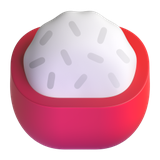
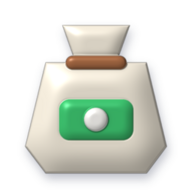
JAGA: beranda baru, tombol suara di kolom cari, ikon gaya clay, daftar driver tanpa dokumen
- Beranda: kartu menu 4 ikon (Belanja, Jago, Toko, Pesanan), mic di kolom cari,
  slogan JA/GA disorot, promo duplikat dihapus
- 28 ikon baru bergaya clay 3D
- Pendaftaran driver cukup nama, WA, plat nomor & alamat; tetap disetujui owner
- Cache service worker jt-v20

Claude-Session: https://claude.ai/code/session_01NviPS7Y1nNYHre6cZEPXst

diff --git a/toko/index.html b/toko/index.html
@@ -1265,6 +1265,49 @@ body.is-owner .dtop{z-index:20}
 .ddocs .actions{grid-column:1/-1}
 .orow.rep.done{opacity:.6}
 .tag.green{background:#dcfce7;color:#166534}
+
+/* beranda v2 */
+.ahero{padding-bottom:58px}
+.hub{margin:0 16px 12px;background:#fff;border-radius:24px;padding:14px 10px 10px;box-shadow:0 20px 40px -26px rgba(10,22,51,.55),0 2px 6px -3px rgba(10,22,51,.12);border:1px solid #edf1f8}
+.hgrid{display:grid;grid-template-columns:repeat(4,1fr);gap:4px}
+.ht{position:relative;border:0;background:none;display:flex;flex-direction:column;align-items:center;gap:7px;font:inherit;color:#1b2740;cursor:pointer;padding:2px 0 4px}
+.ht .ib{width:60px;height:60px;border-radius:19px;display:grid;place-items:center;transition:transform .25s cubic-bezier(.3,1.6,.5,1)}
+.ht .ib .e3d{width:40px;height:40px}
+.ht:active .ib{transform:scale(.92)}
+.ht b{font-size:13px;font-weight:700;letter-spacing:-.01em}
+.ht .t1{background:linear-gradient(160deg,#fff3e2,#ffe4c2)}
+.ht .t2{background:linear-gradient(150deg,#16306e,#2f6bff)}
+.ht .t3{background:linear-gradient(160deg,#e6f7ee,#c9eed9)}
+.ht .t4{background:linear-gradient(160deg,#eaf1ff,#d4e2ff)}
+.ht .bd2{position:absolute;top:-6px;right:calc(50% - 38px);background:#ffd23f;color:#3d2c00;font-size:10px;font-weight:800;border-radius:99px;padding:2px 7px;border:2px solid #fff}
+.ht .bd2.ok{background:#16a34a;color:#fff}
+.ht .bd2.rd{background:#ff5a5f;color:#fff;min-width:20px;text-align:center}
+.hvoice{display:flex;align-items:center;gap:12px;width:100%;margin-top:12px;border:0;border-radius:18px;padding:10px 12px 10px 10px;background:linear-gradient(120deg,#15994a,#22c55e 70%,#3fd97a);color:#fff;font:inherit;text-align:left;cursor:pointer;box-shadow:0 12px 24px -16px rgba(22,163,74,.9)}
+.hvoice .vci{width:46px;height:46px;font-size:22px}
+.hvoice b{display:block;font-size:15.5px;letter-spacing:-.01em}
+.hvoice small{display:block;font-size:12px;opacity:.92;margin-top:1px}
+.hgo{width:30px;height:30px;border-radius:50%;background:rgba(255,255,255,.2);display:grid;place-items:center;flex-shrink:0;font-size:16px}
+.tstrip{margin:0 16px 16px;display:grid;grid-template-columns:1fr 1fr;gap:8px}
+.tstrip .th{grid-column:1/-1;display:flex;align-items:center;gap:6px;font-size:13px;font-weight:700;color:#334063;padding:0 2px}
+.tstrip .th b{color:#1f4fd1}
+.tstrip .th .ic{color:#1f4fd1;font-size:16px}
+.tstrip .tc{display:flex;gap:9px;align-items:center;background:#fff;border:1px solid #e7ecf5;border-radius:16px;padding:10px}
+.tstrip .ti{width:34px;height:34px;border-radius:11px;background:#e7f7ee;color:#16a34a;display:grid;place-items:center;flex-shrink:0;font-size:18px}
+.tstrip .tc b{display:block;font-size:13.5px;color:#1f4fd1;letter-spacing:-.01em}
+.tstrip .tc small{display:block;font-size:11.5px;color:#5b6884;line-height:1.25}
+.abanner{height:142px}
+.aslide h3{font-size:19px}
+.aslide .art{font-size:84px}
+@media (min-width:700px){.ht .ib{width:68px;height:68px}.ht .ib .e3d{width:46px;height:46px}}
+.aql{flex:1;min-width:0;display:flex;align-items:center;gap:10px;height:100%;cursor:text}
+.asearch{padding:0 6px 0 14px}
+.amic{width:40px;height:40px;border-radius:12px;border:0;flex-shrink:0;display:grid;place-items:center;font-size:20px;color:#fff;cursor:pointer;background:linear-gradient(140deg,#16a34a,#22c55e);box-shadow:0 6px 14px -6px rgba(22,163,74,.8);position:relative}
+.amic::after{content:"";position:absolute;inset:0;border-radius:12px;animation:gpulse 2.2s infinite}
+@keyframes gpulse{0%{box-shadow:0 0 0 0 rgba(34,197,94,.55)}70%{box-shadow:0 0 0 10px rgba(34,197,94,0)}100%{box-shadow:0 0 0 0 rgba(34,197,94,0)}}
+.hub{padding-bottom:12px}
+.tstrip .tc b.ab{color:#334063;font-weight:600}
+.tstrip .tc b.ab em,.tstrip .th .jg2 em{font-style:normal;font-weight:800;color:#fff;background:#1f4fd1;border-radius:6px;padding:1px 4px;margin-right:1px}
+.tstrip .th .jg2{display:inline-flex;gap:2px}
 </style>
 <script src="config.js"></script>
 <script src="https://cdn.jsdelivr.net/npm/@supabase/supabase-js@2"></script>
@@ -2487,7 +2530,7 @@ function appHome(){
     '<button class="aloc" data-act="edit-addr"><small>'+E("pin")+' Antar ke</small><b><span>'+esc(prof.address||"Atur alamat pengantaran")+'</span>'+I("down")+'</b></button>'+
     '<button class="abell press" data-act="nav" data-v="orders" aria-label="Pesanan aktif">'+E("bell")+(oc?'<span class="bdg">'+oc+'</span>':'')+'</button></div>'+
     '<div class="ahello'+ra(1)+'">'+greet()+(first?', '+esc(first):'')+'!<span>Mau belanja apa hari ini?</span></div>'+
-    '<label class="asearch'+ra(2)+'">'+E("search")+'<input id="aq" type="search" enterkeyhint="search" placeholder="Cari makanan, minuman, sembako…" value="'+esc(S.q)+'" autocomplete="off"></label></section>'+
+    '<div class="asearch'+ra(2)+'"><label class="aql">'+E("search")+'<input id="aq" type="search" enterkeyhint="search" placeholder="Cari makanan, minuman…" value="'+esc(S.q)+'" autocomplete="off"></label><button class="amic press" data-act="voice" aria-label="Pesan pakai suara">'+I("mic")+'</button></div></section>'+
     '<div class="abody'+(filtering?" flat":"")+'" id="hbody">'+appHomeBody()+'</div>';
 }
 function renderHomeBody(){
@@ -2512,10 +2555,15 @@ function appHomeBody(){
   if(!filtering){
     const ar = S.rides.find(r => RIDE_ACTIVE.includes(r.status));
     if(locOk(getProf()) && !inArea(getProf())) h += '<div style="margin:0 16px 12px">'+areaBanner()+'</div>';
-    h += '<button class="vcard press'+ra(2)+'" data-act="voice"><span class="vci">'+I("mic")+'</span><div class="grow"><b>Pesan pakai suara</b><small>Ketuk, lalu bicara: “mau ke pasar” atau “beli beras 5 kilo”</small></div></button>';
-    h += '<div class="svc'+ra(2)+'"><button class="sv press" data-act="scroll-prod">'+E("cart")+'<div><b>Belanja</b><small>Antar dari toko</small></div></button>'+
-      '<button class="sv jg press" data-act="nav" data-v="jago">'+E("scooter")+'<div><b>Jago</b><small>'+(ar ? esc((STATUS[ar.status]||{}).l||"Berjalan") : 'Ojek online')+'</small></div>'+(ar?'<span class="bdg">1</span>':'<span class="new">Baru</span>')+'</button></div>';
-    h += '<div class="trust'+ra(2)+'"><div class="tt">Kami <b>JAGA</b> Kepercayaan anda</div><div class="tg"><span>'+I("checkc")+'<i><b>JA</b>minan Driver dan toko Aman</i></span><span>'+I("checkc")+'<i><b>GA</b>ransi pesanan pasti sampai</i></span></div></div>';
+    const oc = myActiveOrders();
+    h += '<div class="hub'+ra(2)+'"><div class="hgrid">'+
+      '<button class="ht press" data-act="scroll-prod"><span class="ib t1">'+E("cart")+'</span><b>Belanja</b></button>'+
+      '<button class="ht jg press" data-act="nav" data-v="jago"><span class="ib t2">'+E("scooter")+'</span><b>Jago</b>'+(ar?'<span class="bd2 ok">Jalan</span>':'<span class="bd2">Baru</span>')+'</button>'+
+      '<button class="ht press" data-act="scroll-store"><span class="ib t3">'+E("store")+'</span><b>Toko</b></button>'+
+      '<button class="ht press" data-act="nav" data-v="orders"><span class="ib t4">'+E("receipt")+'</span><b>Pesanan</b>'+(oc?'<span class="bd2 rd">'+oc+'</span>':'')+'</button></div>'+'</div>';
+    h += '<div class="tstrip'+ra(3)+'"><div class="th">'+I("badge")+' Kami <b class="jg2"><em>JA</em><em>GA</em></b> Kepercayaan anda</div>'+
+      '<div class="tc"><span class="ti">'+I("checkc")+'</span><span><b class="ab"><em>JA</em>minan</b><small>Driver & toko aman</small></span></div>'+
+      '<div class="tc"><span class="ti">'+I("checkc")+'</span><span><b class="ab"><em>GA</em>ransi</b><small>Pesanan pasti sampai</small></span></div></div>';
     h += '<div class="abanner'+ra(3)+'"><div class="slides" id="slides" style="transform:translateX(-'+(S.slide%ASLIDES.length*100)+'%)">'+ASLIDES.map(x =>
       '<div class="aslide '+x.c+'"'+(x.act?' data-act="'+x.act+'"':'')+'><div class="tx"><span class="pill">'+x.pill+'</span><h3>'+x.t+'</h3><p>'+x.d+'</p>'+(x.cta?'<span class="cta">'+x.cta+' →</span>':'')+'</div><div class="art">'+E(x.art)+'</div></div>').join("")+'</div>'+
       '<div class="adots" id="dots">'+ASLIDES.map((x,i)=>'<button class="'+(i===S.slide%ASLIDES.length?"on":"")+'" data-act="slide-to" data-v="'+i+'" aria-label="Banner '+(i+1)+'"></button>').join("")+'</div></div>';
@@ -2537,13 +2585,9 @@ function appHomeBody(){
         return '<div class="again'+ra(i)+'"><div class="th">'+th+'</div><div class="grow" style="min-width:0"><b>'+esc(it.name||o.storeName)+(o.items.length>1?' +'+(o.items.length-1):'')+'</b><small>'+timeAgo(o.doneAt||o.createdAt)+' · '+rp(o.total)+'</small></div><button class="rb press" data-act="reorder" data-id="'+esc(o.id)+'" aria-label="Pesan lagi">'+I("repeat")+'</button></div>';
       }).join("")+'</div>';
     }
-    h += '<div class="ash"><h2>Promo untukmu</h2></div><div class="hscroll">'+
-      '<div class="deal d1'+ra(1)+'"><div><small>Ongkir cuma</small><b>Rp2rb<br>/500 m</b></div><span class="chip2">Driver terdekat</span><span class="art">'+E("truck")+'</span></div>'+
-      '<div class="deal d2'+ra(2)+'"><div><small>Untuk pembeli</small><b>Rp0 biaya<br>admin</b></div><span class="chip2">Bayar langsung ke toko</span><span class="art">'+E("money")+'</span></div>'+
-      '<div class="deal d3'+ra(3)+'"><div><small>Bayar mudah</small><b>QRIS, transfer<br>& COD</b></div><span class="chip2">Pilih saat checkout</span><span class="art">'+E("card")+'</span></div></div>';
   }
   if(stores.length){
-    h += '<div class="ash"><h2>'+(filtering?'Toko':'Toko di sekitarmu')+'</h2><span class="small muted">'+stores.length+' toko</span></div><div class="hscroll">'+stores.slice(0,20).map((s,i) => {
+    h += '<div class="ash" id="storeTop"><h2>'+(filtering?'Toko':'Toko di sekitarmu')+'</h2><span class="small muted">'+stores.length+' toko</span></div><div class="hscroll">'+stores.slice(0,20).map((s,i) => {
       const c = s.color || "#2f6bff";
       return '<div class="astore press'+ra(i)+'" data-act="open-store" data-id="'+esc(s.id)+'"><div class="cv" style="background:linear-gradient(140deg,'+esc(c)+'26,'+esc(c)+'66)">'+avatarHtml(s)+E(catE(s.category))+'</div>'+
         '<div class="bd"><b>'+esc(s.name)+'</b><small>'+(s.open===false?'<span class="closedt">Tutup</span>':'<span class="open">● Buka</span>')+' · '+esc(s.category)+' · '+esc(s.area||"")+'</small>'+storeStars(s.id)+'</div></div>';
@@ -2733,6 +2777,7 @@ document.addEventListener("click", e => {
   if(a === "edit-addr"){ openAddrModal(); return; }
   if(a === "guest"){ try{ localStorage.setItem("jt_onb", "1"); }catch(_){} go("home"); return; }
   if(a === "logout"){ confirmModal("Keluar dari akun di perangkat ini? Nama & alamat yang tersimpan akan dihapus.", "Keluar", async () => { try{ localStorage.removeItem("st_buyer"); localStorage.removeItem("jt_onb"); }catch(_){} go("login"); }); return; }
+  if(a === "scroll-store"){ const t = document.getElementById("storeTop")||document.getElementById("prodTop"); if(t) t.scrollIntoView({behavior:"smooth"}); return; }
   if(a === "scroll-prod"){ const t = document.getElementById("prodTop"); if(t) t.scrollIntoView({behavior:"smooth"}); return; }
 });
 document.addEventListener("submit", e => {
@@ -2874,7 +2919,7 @@ const localDrv = {
   me(){ const d = S.drivers.find(x => x.id === DRIVER_ID_LOCAL); return d ? Object.assign({}, d) : null; },
   async save(data){
     const old = this.me(), now = Date.now(), patch = {};
-    ["name","wa","vehicle","plate","area","online","lat","lng"].forEach(k => { if(k in data) patch[k] = data[k]; });
+    ["name","wa","vehicle","plate","address","area","online","lat","lng"].forEach(k => { if(k in data) patch[k] = data[k]; });
     if("lat" in patch) patch.locAt = now;
     if(!old){
       if(!patch.name || !patch.wa) throw srvErr("Isi nama dan nomor WhatsApp");
@@ -2882,6 +2927,7 @@ const localDrv = {
       if(!S.drivers.some(x => x.id === DRIVER_ID_LOCAL)) S.drivers.push(Object.assign({id:DRIVER_ID_LOCAL, createdAt:now}, patch, {online:false, verify:"pending"}));
     } else {
       if(old.verify && old.verify !== "verified" && patch.online) throw srvErr("Akun driver belum diverifikasi tim JAGA");
+      if(old.verify === "rejected" && ("name" in patch || "plate" in patch || "address" in patch)) Object.assign(patch, {verify:"pending", verifyNote:""});
       await store.update("drivers/" + DRIVER_ID_LOCAL, Object.assign(patch, {updatedAt:now}));
     }
     const merged = Object.assign(old || {}, patch, old ? {} : {online:false, verify:"pending"}, {id:DRIVER_ID_LOCAL});
@@ -3062,7 +3108,8 @@ function driverForm(me){
     '<label class="f">Nama lengkap *</label><input class="in" name="name" required value="'+esc(me.name||"")+'">'+
     '<label class="f">No. WhatsApp *</label><input class="in" name="wa" required inputmode="tel" placeholder="08xxxxxxxxxx" value="'+esc(me.wa||"")+'">'+
     '<div class="cols2"><div><label class="f">Kendaraan</label><select class="in" name="vehicle">'+["Motor","Mobil","Sepeda"].map(v=>'<option '+(me.vehicle===v?"selected":"")+'>'+v+'</option>').join("")+'</select></div>'+
-    '<div><label class="f">Plat nomor</label><input class="in" name="plate" placeholder="BM 1234 XX" value="'+esc(me.plate||"")+'"></div></div>'+
+    '<div><label class="f">Plat nomor *</label><input class="in" name="plate" required placeholder="BM 1234 XX" value="'+esc(me.plate||"")+'"></div></div>'+
+    '<label class="f">Alamat rumah *</label><input class="in" name="address" required placeholder="Jalan, desa/kelurahan, kecamatan" value="'+esc(me.address||"")+'">'+
     '<label class="f">Area narik</label><input class="in" name="area" placeholder="Contoh: Ujungbatu" value="'+esc(me.area||"Ujungbatu")+'">'+
     '<button class="btn block press" style="margin-top:16px">'+(me.name ? "Simpan perubahan" : "Daftar & mulai narik")+'</button>'+
     (me.name ? '<button type="button" class="btn ghost block" style="margin-top:8px" data-act="drv-edit">Batal</button>' : '<div class="hint" style="text-align:center">Akun driver tersimpan di HP ini.</div>')+
@@ -3119,7 +3166,7 @@ function appDriver(){
       '<div class="dperks"><div>'+E("pin")+'<b>Order terdekat</b><span>Dicari dari radius 1 km, melebar sampai 5 km</span></div>'+
       '<div>'+E("money")+'<b>Ongkir 100% untukmu</b><span>Rp2.000 per 500 m, bisa nego</span></div>'+
       '<div>'+E("scooter")+'<b>Order ojek Jago</b><span>Antar penumpang, komisi cuma 3%</span></div>'+
-      '<div>'+E("check")+'<b>Saldo gratis</b><span>Driver baru dapat saldo awal untuk order Jago</span></div></div>'+ driverForm(null);
+      '<div>'+E("check")+'<b>Daftar mudah</b><span>Cukup nama, WA, plat & alamat. Disetujui tim JAGA, dapat saldo gratis</span></div></div>'+ driverForm(null);
   }
   if(S.drv.editing) return h + '<h2 class="sec" style="margin:8px 16px">Ubah data driver</h2>' + driverForm(me);
   if(S.drv.walletOpen) return h + drvWallet();
@@ -3217,12 +3264,13 @@ document.addEventListener("submit", async e => {
   const f = e.target; if(f.id !== "drvForm") return;
   e.preventDefault();
   const fd = new FormData(f);
-  const data = {name:(fd.get("name")||"").trim(), wa:(fd.get("wa")||"").trim(), vehicle:fd.get("vehicle"), plate:(fd.get("plate")||"").trim().toUpperCase(), area:(fd.get("area")||"").trim()};
+  const data = {name:(fd.get("name")||"").trim(), wa:(fd.get("wa")||"").trim(), vehicle:fd.get("vehicle"), plate:(fd.get("plate")||"").trim().toUpperCase(), address:(fd.get("address")||"").trim(), area:(fd.get("area")||"").trim()};
   if(!data.name || data.wa.replace(/\D/g, "").length < 9) return toast("Isi nama dan nomor WhatsApp yang benar.");
+  if(data.plate.length < 3 || data.address.length < 5) return toast("Isi plat nomor dan alamat rumah.");
   const btn = f.querySelector("button"); if(btn) btn.disabled = true;
   const wasNew = !S.drv.me;
   S.drv.editing = false;
-  await drvDo(() => DRV.save(data), wasNew ? "Pendaftaran berhasil! Lanjutkan dengan mengunggah dokumen untuk verifikasi." : "Data disimpan");
+  await drvDo(() => DRV.save(data), wasNew ? "Pendaftaran terkirim! Tunggu persetujuan tim JAGA." : "Data disimpan");
 });
 /* perbarui tampilan pencarian driver di sisi pembeli & toko */
 setInterval(() => {
@@ -3393,7 +3441,7 @@ function appOwner(){
   if(!S.own.authed) return h + (S.own.err ? '<div class="notice">'+esc(S.own.err)+'</div>' : '') + ownLogin();
   const D = (SB ? S.own.data : null) || (SB ? {stores:[], orders:[], drivers:[], rides:[]} : {stores:S.stores.map(s => Object.assign({}, s, {products:(S.products[s.id]||[]).length})), orders:S.orders.slice().sort((a,b)=>(b.createdAt||0)-(a.createdAt||0)), drivers:S.drivers, rides:S.ridesAll.slice().sort((a,b)=>(b.createdAt||0)-(a.createdAt||0)), reportsOpen:(S.localReports||[]).filter(r => r.status !== "selesai").length});
   const RD = D.rides || [];
-  const pendDrv = (D.drivers||[]).filter(d => d.verify === "pending" && d.docsAt).length;
+  const pendDrv = (D.drivers||[]).filter(d => d.verify === "pending").length;
   const tabs = [["ringkasan","Ringkasan"],["pesanan","Pesanan"],["laporan","Laporan"+(D.reportsOpen?" ("+D.reportsOpen+")":"")],["toko","Toko"],["saldo","Saldo"],["driver","Driver"+(pendDrv?" ("+pendDrv+")":"")],["cabang","Cabang"],["akun","Akun"]];
   h += '<div class="otabs">'+tabs.map(t => '<button class="'+(S.own.tab===t[0]?"on":"")+'" data-act="own-tab" data-v="'+t[0]+'">'+t[1]+'</button>').join("")+'</div>';
   const ranges = [["hari","Hari ini"],["7hari","7 hari"],["bulan","Bulan ini"],["semua","Semua"]];
@@ -3475,8 +3523,10 @@ function appOwner(){
     }).sort((a, b) => (b.on - a.on) || (b.trips - a.trips));
     const pend = drivers.filter(d => d.verify && d.verify !== "verified");
     if(pend.length) h += '<div class="card pad"><h3 class="sub">Menunggu verifikasi ('+pend.length+')</h3>'+pend.map(d => '<div class="orow"><div class="drv-av">'+esc(initials(d.name))+'</div><div class="grow"><b>'+esc(d.name)+'</b><small>'+esc([d.vehicle, d.plate, d.wa].filter(Boolean).join(" · "))+'</small>'+
-      '<small>'+(d.verify === "rejected" ? '<b class="warnc">Ditolak</b>'+(d.verifyNote?': '+esc(d.verifyNote):'') : (d.docsAt || d.hasDocs) ? '<b style="color:#1f4fd1">Dokumen terkirim '+(d.docsAt ? ago(d.docsAt) : '')+'</b>' : '<span class="muted">Belum mengirim dokumen</span>')+'</small></div>'+
-      '<div class="r">'+((d.docsAt || d.hasDocs) ? '<button class="btn sm" data-act="drv-docs" data-id="'+esc(d.id)+'" data-v="'+esc(d.name)+'">Cek dokumen</button>' : '')+(d.wa ? '<a class="small" target="_blank" rel="noopener" href="'+esc(waLink(d.wa, "Halo "+d.name+", ini tim JAGA soal verifikasi driver."))+'">WA</a>' : '')+'</div></div>').join("")+'</div>';
+      (d.address ? '<small>'+I("pin")+' '+esc(d.address)+'</small>' : '')+
+      '<small>'+(d.verify === "rejected" ? '<b class="warnc">Ditolak</b>'+(d.verifyNote?': '+esc(d.verifyNote):'') : '<b style="color:#1f4fd1">Daftar '+(d.createdAt ? ago(d.createdAt) : '')+'</b>')+'</small></div>'+
+      '<div class="r"><button class="btn sm" data-act="drv-verify" data-id="'+esc(d.id)+'" data-v="1">Setujui</button>'+(d.verify !== "rejected" ? '<button class="btn ghost sm" data-act="drv-verify" data-id="'+esc(d.id)+'" data-v="0">Tolak</button>' : '')+
+      ((d.docsAt || d.hasDocs) ? '<button class="linkbtn" data-act="drv-docs" data-id="'+esc(d.id)+'" data-v="'+esc(d.name)+'">Dokumen</button>' : '')+(d.wa ? '<a class="small" target="_blank" rel="noopener" href="'+esc(waLink(d.wa, "Halo "+d.name+", ini tim JAGA soal verifikasi driver."))+'">WA</a>' : '')+'</div></div>').join("")+'</div>';
     h += '<div class="card pad">'+(ds.length ? ds.map(x => '<div class="orow"><div class="drv-av">'+esc(initials(x.d.name))+'</div><div class="grow"><b>'+esc(x.d.name)+'</b> '+(x.d.verify && x.d.verify !== "verified" ? '<span class="tag">Belum verifikasi</span>' : '<span class="tag green">Terverifikasi</span>')+' '+starTxt(((D.ratings||S.ratings).driver||{})[x.d.id])+'<small>'+esc([x.d.vehicle, x.d.plate, x.d.area].filter(Boolean).join(" · "))+'</small>'+
       '<small>'+(x.on ? '<b style="color:#15803d">● Online</b>'+(x.busy?' · sedang mengantar':'') : '<span class="muted">○ Offline</span>')+(x.d.locAt ? ' · lokasi '+ago(x.d.locAt) : '')+'</small></div>'+
       '<div class="r"><b>'+x.trips+' trip</b><small>'+(x.rides?x.rides+' Jago · ':'')+rp(x.ongkir)+'</small><small>hari ini '+x.today+'</small><small>saldo '+(x.bal == null ? '…' : rp(x.bal))+'</small><button class="btn ghost sm" data-act="own-adjust" data-id="drv:'+esc(x.d.id)+'" data-v="Driver '+esc(x.d.name)+'">Saldo</button>'+(x.d.wa?'<a class="small" target="_blank" rel="noopener" href="'+esc(waLink(x.d.wa,"Halo "+x.d.name+", ini dari JAGA."))+'">WA</a>':'')+'</div></div>').join("") : '<div class="muted small">Belum ada driver terdaftar. Bagikan link jagapatner.my.id/toko/#driver ke calon driver.</div>')+'</div>';
@@ -4685,18 +4735,14 @@ async function drvSubmitDocs(docs){
   await store.update("drivers/" + id, {verify:"pending", docsAt:Date.now(), verifyNote:""});
 }
 function drvVerifyView(me){
-  const st = me.verify, waiting = st === "pending" && me.docsAt;
+  const rej = me.verify === "rejected";
   let h = '<div class="card dme"><div class="drv-av big">'+esc(initials(me.name))+'</div><div class="grow"><b>'+esc(me.name)+'</b><small>'+esc([me.vehicle, me.plate, me.area].filter(Boolean).join(" · "))+'</small><button class="linkbtn" data-act="drv-edit">Ubah data</button></div></div>';
-  h += '<div class="vrfy '+(st === "rejected" ? 'rej' : waiting ? 'wait' : '')+'">'+E(st === "rejected" ? "bell" : waiting ? "clock" : "check")+'<div><b>'+(st === "rejected" ? "Verifikasi ditolak" : waiting ? "Menunggu verifikasi tim JAGA" : "Verifikasi akun driver")+'</b>'+
-    '<small>'+(st === "rejected" ? esc(me.verifyNote || "Dokumen belum sesuai.")+' Silakan kirim ulang dokumen yang benar.' : waiting ? 'Dokumen sudah terkirim '+ago(me.docsAt)+'. Akun aktif setelah disetujui. Biasanya kurang dari 1×24 jam.' :
-      'Demi <b>JAminan Driver dan toko Aman</b>, setiap driver diverifikasi dulu sebelum menerima order.')+'</small></div></div>';
-  if(!waiting){
-    h += '<form class="card pad" id="docForm"><h3 class="sub">Unggah dokumen</h3>'+DOCS.map(([k, l]) =>
-      '<label class="docup'+(S.drvDocs[k] ? ' ok' : '')+'"><input type="file" accept="image/*" data-doc="'+k+'" hidden>'+(S.drvDocs[k] ? '<img src="'+S.drvDocs[k]+'" alt="">' : I("camera"))+'<span><b>'+l+'</b><small>'+(S.drvDocs[k] ? 'Siap · ketuk untuk ganti' : 'Ketuk untuk foto / pilih gambar')+'</small></span></label>').join("")+
-      '<div class="hint">Foto harus jelas dan terbaca. Data hanya dilihat tim JAGA untuk verifikasi.</div>'+
-      '<button class="btn block press" style="margin-top:12px"'+(DOCS.every(([k]) => S.drvDocs[k]) ? '' : ' disabled')+'>Kirim untuk verifikasi</button></form>';
-  }
-  h += '<div class="small muted" style="text-align:center;margin:14px">Pertanyaan? <a target="_blank" rel="noopener" href="'+esc(waLink(CONTACT.wa, "Halo JAGA, saya driver "+me.name+", mau tanya verifikasi."))+'">WhatsApp JAGA</a></div>';
+  h += '<div class="vrfy '+(rej ? 'rej' : 'wait')+'">'+E(rej ? "bell" : "clock")+'<div><b>'+(rej ? "Pendaftaran ditolak" : "Menunggu persetujuan tim JAGA")+'</b>'+
+    '<small>'+(rej ? esc(me.verifyNote || "Data belum sesuai.")+' Perbaiki lewat “Ubah data”, lalu pendaftaran dikirim ulang.' :
+      'Demi <b>JAminan Driver dan toko Aman</b>, setiap driver disetujui tim JAGA dulu sebelum menerima order. Tim JAGA mungkin menghubungi kamu lewat WhatsApp.')+'</small></div></div>';
+  h += '<div class="card pad" style="margin:0 16px"><h3 class="sub">Data pendaftaran</h3>'+
+    [["Nama", me.name], ["WhatsApp", me.wa], ["Kendaraan", me.vehicle], ["Plat nomor", me.plate], ["Alamat", me.address], ["Area narik", me.area]].map(r => '<div class="row"><span class="muted">'+r[0]+'</span><span>'+esc(r[1] || "-")+'</span></div>').join("")+'</div>';
+  h += '<div class="small muted" style="text-align:center;margin:14px">Ingin cepat diproses? <a target="_blank" rel="noopener" href="'+esc(waLink(CONTACT.wa, "Halo JAGA, saya "+me.name+" (plat "+(me.plate||"-")+") sudah daftar driver, mohon diverifikasi."))+'">WhatsApp JAGA</a></div>';
   return h;
 }
 document.addEventListener("change", async e => {
@@ -4786,7 +4832,7 @@ document.addEventListener("click", async e => {
   if(a === "drv-verify"){
     const ok = v === "1";
     const go2 = async note => { try{ await OWNX.verify(id, ok, note); toast(ok ? "Driver disetujui dan langsung bisa menerima order." : "Verifikasi ditolak."); closeModal(); }catch(err){ toast(String(err.message||"Gagal").replace(/^.*?:\s*/, "")); } ownRefresh(); };
-    if(ok) confirmModal("Setujui driver ini? Pastikan KTP, SIM, STNK dan selfie sudah sesuai.", "Setujui", () => go2(""));
+    if(ok) confirmModal("Setujui driver ini? Pastikan nama, plat nomor, dan alamatnya sudah dicek (misalnya lewat WhatsApp).", "Setujui", () => go2(""));
     else { const note = prompt("Alasan penolakan (dikirim ke driver):", "Foto dokumen kurang jelas"); if(note !== null) go2(note); }
     return;
   }

diff --git a/toko/sw.js b/toko/sw.js
@@ -1,5 +1,5 @@
 // JAGA — service worker sederhana: aplikasi cepat dibuka & tetap tampil saat sinyal lemah.
-const CACHE = "jt-v19";
+const CACHE = "jt-v20";
 const SHELL = ["./", "./index.html", "./config.js", "./manifest.webmanifest", "./icons/icon-192.png"];
 self.addEventListener("install", e => { e.waitUntil(caches.open(CACHE).then(c => c.addAll(SHELL)).catch(() => {}).then(() => self.skipWaiting())); });
 self.addEventListener("activate", e => { e.waitUntil(caches.keys().then(ks => Promise.all(ks.filter(k => k !== CACHE).map(k => caches.delete(k)))).then(() => self.clients.claim())); });

diff --git a/toko/emoji/LICENSE.md b/toko/emoji/LICENSE.md
@@ -1,7 +1,3 @@
-Ikon 3D di folder ini berasal dari **Fluent Emoji** oleh Microsoft
-https://github.com/microsoft/fluentui-emoji — lisensi MIT.
+# Ikon JAGA
 
-MIT License — Copyright (c) Microsoft Corporation.
-Permission is hereby granted, free of charge, to any person obtaining a copy of this software and associated documentation files (the "Software"), to deal in the Software without restriction, including without limitation the rights to use, copy, modify, merge, publish, distribute, sublicense, and/or sell copies of the Software, and to permit persons to whom the Software is furnished to do so, subject to the following conditions:
-The above copyright notice and this permission notice shall be included in all copies or substantial portions of the Software.
-THE SOFTWARE IS PROVIDED "AS IS", WITHOUT WARRANTY OF ANY KIND, EXPRESS OR IMPLIED, INCLUDING BUT NOT LIMITED TO THE WARRANTIES OF MERCHANTABILITY, FITNESS FOR A PARTICULAR PURPOSE AND NONINFRINGEMENT. IN NO EVENT SHALL THE AUTHORS OR COPYRIGHT HOLDERS BE LIABLE FOR ANY CLAIM, DAMAGES OR OTHER LIABILITY, WHETHER IN AN ACTION OF CONTRACT, TORT OR OTHERWISE, ARISING FROM, OUT OF OR IN CONNECTION WITH THE SOFTWARE OR THE USE OR OTHER DEALINGS IN THE SOFTWARE.
+Ikon 3D bergaya clay di folder ini dibuat khusus untuk aplikasi JAGA (digambar dengan kode, bukan dari paket ikon pihak ketiga).
